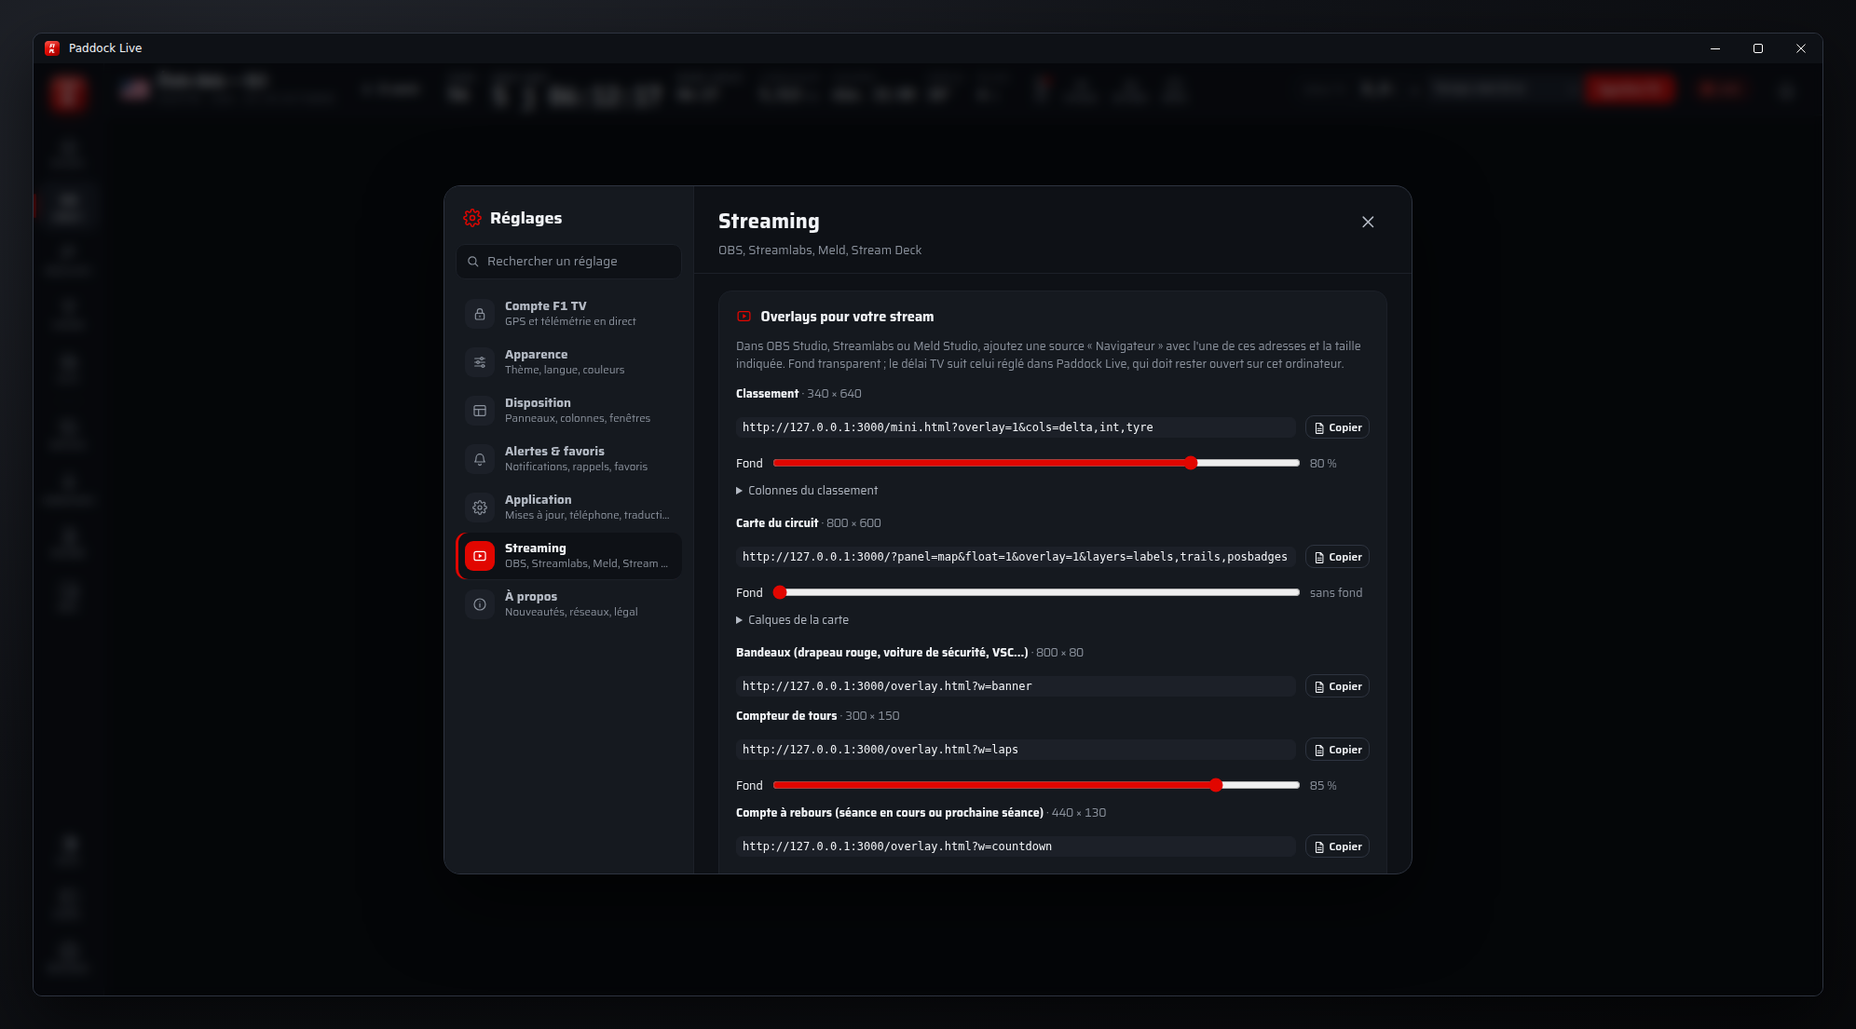
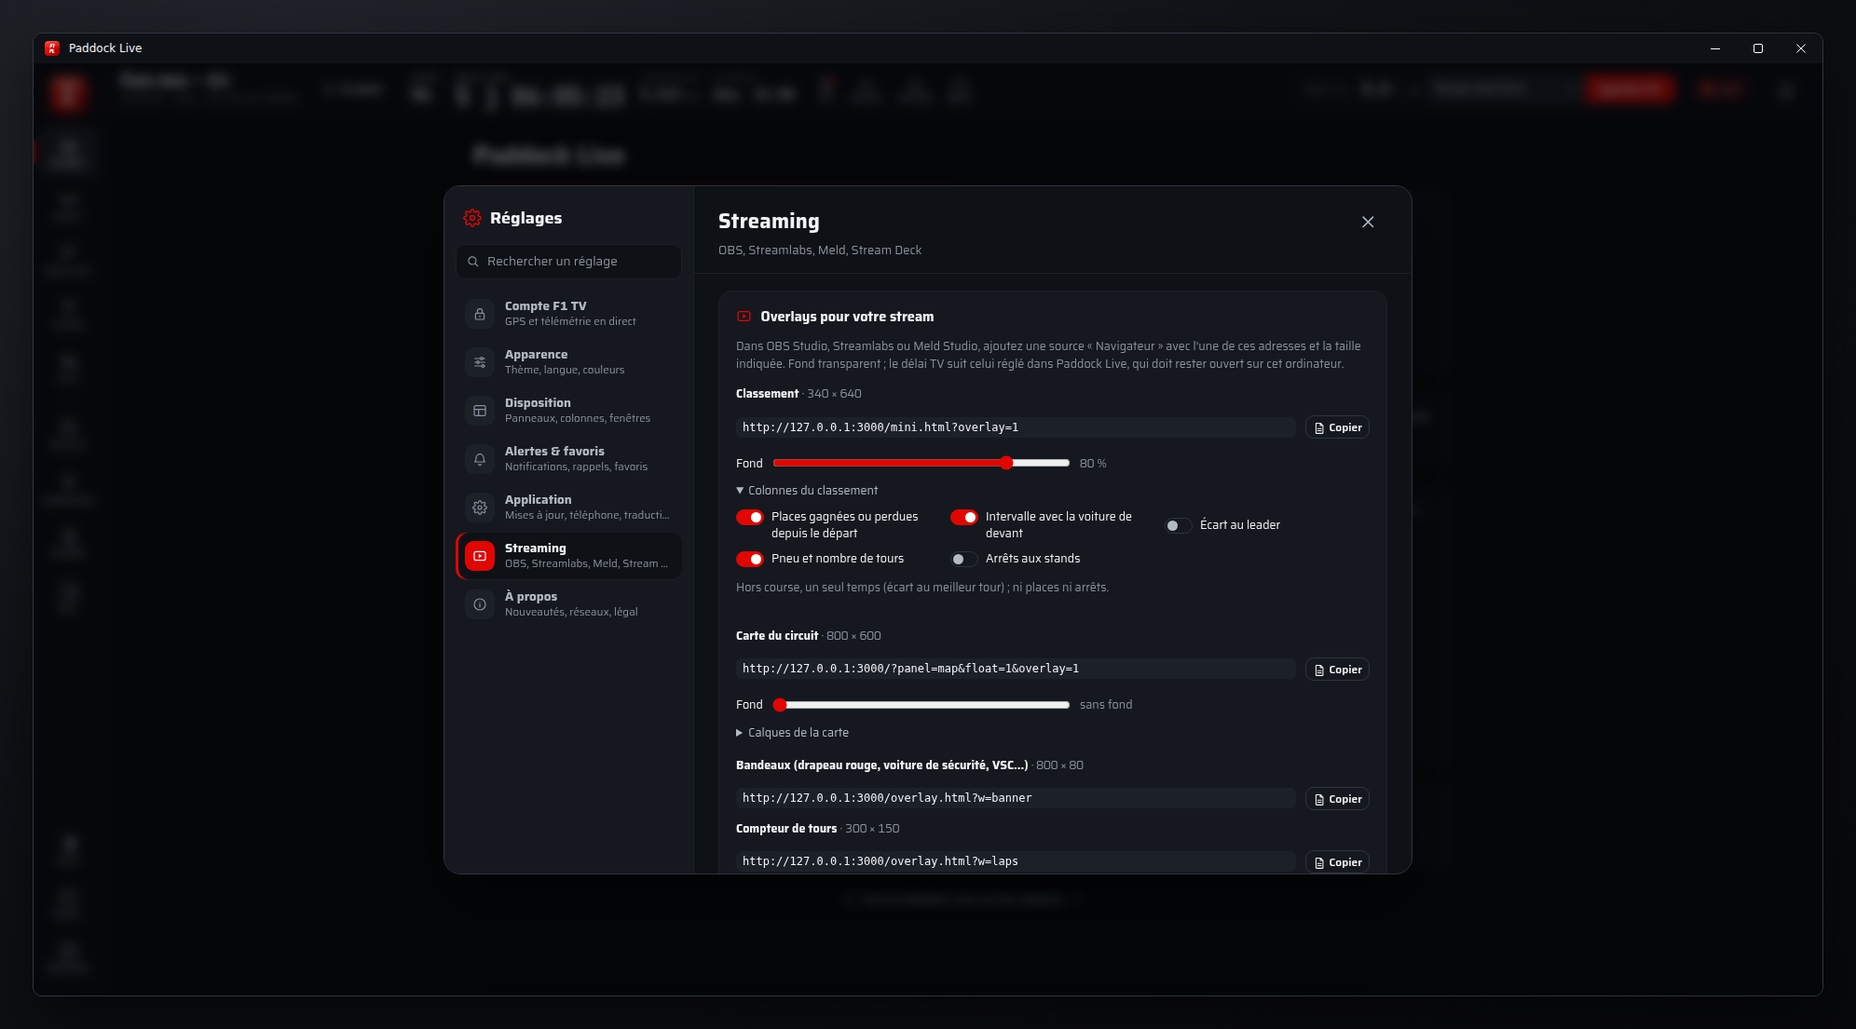
Streaming : adresses des overlays fixes, réglages appliqués en direct
Le fond, les colonnes du classement et les calques de la carte ne sont plus
dans l'adresse : Réglages → Streaming les envoie au serveur (message
« overlays » de la fenêtre de l'ordinateur), qui les garde dans config.json et
les transmet aux overlays ouverts (« overlayCfg », et dans « role » à
l'ouverture), comme le pilote suivi. Les anciennes adresses avec réglages
fonctionnent toujours. Capture Streaming du README refaite.

Claude-Session: https://claude.ai/code/session_01WgEz3ZSgjwLPy4E2f6uwb7

diff --git a/public/js/ui/streaming.js b/public/js/ui/streaming.js
@@ -4,6 +4,8 @@
 import { $, esc } from '../util.js';
 import { icon } from '../icons.js';
 import { toast } from './delay.js';
+import { store, on } from '../store.js';
+import { sendOverlayCfg } from '../conn.js';
 
 const base = () => `http://127.0.0.1:${location.port || 80}`;
 const MAP = '/?panel=map&float=1&overlay=1';
@@ -37,16 +39,19 @@ const line = (label, path, hint = '', extra = '') => `<div class="stream-row"><s
   <div class="row"><input readonly value="${esc(base() + path)}"><button class="btn small" data-copy="${esc(base() + path)}">${icon('doc')} Copier</button></div>${extra}</div>`;
 const bgLabel = (v) => (Number(v) ? `${v} %` : 'sans fond');
 
-// Réglages d'un overlay (fond, calques de la carte) : ajoutés à son adresse, car la source
-// navigateur n'a pas les réglages de l'appli
+// Clé d'un overlay dans ses réglages (gardés par le serveur, envoyés en direct aux overlays)
+const keyOf = (path) => (path.startsWith('/mini.html') ? 'mini' : path === MAP ? 'map' : new URLSearchParams(path.split('?')[1]).get('w'));
+
+// Réglages d'un overlay (fond, colonnes, calques) : appliqués tout de suite aux overlays ouverts dans
+// OBS, sans changer leur adresse
 function overlayLine([label, path, size, bg]) {
   const layers = path === MAP ? [...document.querySelectorAll('#mapLayers input[id^="map"]')].filter((i) => !NO_LAYER.includes(i.id)) : [];
   const cols = path.startsWith('/mini.html') ? COLS : [];
-  const extra = (bg === null ? '' : `<label class="small stream-bg">Fond <input type="range" min="0" max="100" step="5" value="${bg}" data-bg="${bg}"> <span>${bgLabel(bg)}</span></label>`)
+  const extra = (bg === null ? '' : `<label class="small stream-bg">Fond <input type="range" min="0" max="100" step="5" value="${bg}" data-bg> <span>${bgLabel(bg)}</span></label>`)
     + (layers.length ? `<details class="small"><summary>Calques de la carte</summary><div class="row">${layers.map((i) => `<label class="toggle small"><input type="checkbox" data-layer="${i.id.slice(3).toLowerCase()}" ${i.defaultChecked ? 'checked' : ''}> ${esc(i.parentElement.textContent.trim())}</label>`).join('')}</div></details>` : '')
     + (cols.length ? `<details class="small"><summary>Colonnes du classement</summary><div class="row">${cols.map(([k, l, on]) => `<label class="toggle small"><input type="checkbox" data-col="${k}" ${on ? 'checked' : ''}> ${esc(l)}</label>`).join('')}</div>
       <p class="muted">Hors course, un seul temps (écart au meilleur tour) ; ni places ni arrêts.</p></details>` : '');
-  return line(label, path, size, extra).replace('<div class="stream-row">', `<div class="stream-row" data-path="${esc(path)}">`);
+  return line(label, path, size, extra).replace('<div class="stream-row">', `<div class="stream-row" data-key="${keyOf(path)}">`);
 }
 
 function render() {
@@ -62,24 +67,40 @@ function render() {
       <li>La carte affiche le circuit pendant une séance ou un replay. Pour recharger une source : clic droit → Actualiser.</li>
       <li>Chaque overlay s'adapte à la taille de la source. Les bandeaux n'apparaissent que pendant un drapeau (et 30 s au drapeau à damier) : laissez la source affichée en permanence.</li>
       <li>La télémétrie montre le pilote suivi dans Paddock Live (clic sur son nom dans le classement), sinon le leader : changez de pilote dans l'appli, l'overlay suit.</li>
-      <li>Fond et calques : l'adresse change avec vos choix ; recopiez-la dans la source après un changement.</li></ul></details>`;
+      <li>Fond, colonnes et calques : appliqués tout de suite aux overlays déjà ajoutés, l'adresse ne change pas.</li></ul></details>`;
   $('#streamDeck').innerHTML = `<h4>${icon('keyboard')} Stream Deck et télécommandes</h4>
     <p class="small muted">Adresses à appeler depuis cet ordinateur. Stream Deck : action Système → « Site web », collez l'adresse et cochez l'accès en arrière-plan (« GET request in background ») pour que rien ne s'ouvre. Fonctionne aussi avec Bitfocus Companion (requête HTTP GET). Le délai change dans l'appli, les overlays et les téléphones.</p>
     ${COMMANDS.map(([l, p]) => line(l, p)).join('')}`;
-  for (const row of ov.querySelectorAll('[data-path]')) url(row);
-  ov.addEventListener('input', (e) => { const row = e.target.closest('[data-path]'); if (row) url(row); });
+  show(store.overlayCfg);
+  let tm = null;
+  ov.addEventListener('input', (e) => {
+    const r = e.target.closest('[data-bg]');
+    if (r) r.nextElementSibling.textContent = bgLabel(r.value);
+    clearTimeout(tm);
+    tm = setTimeout(() => sendOverlayCfg(cfgOf(ov)), 250);
+  });
+  on('overlayCfg', (cfg) => { if (!ov.contains(document.activeElement)) show(cfg); });
 }
 
-// Adresse d'un overlay avec ses réglages (fond seulement s'il diffère du réglage par défaut)
-function url(row) {
-  const r = row.querySelector('[data-bg]');
-  if (r) r.nextElementSibling.textContent = bgLabel(r.value);
-  const pick = (sel, key) => { const l = [...row.querySelectorAll(`[${sel}]`)]; return l.length ? `&${key}=${l.filter((c) => c.checked).map((c) => c.getAttribute(sel)).join(',')}` : ''; };
-  const u = base() + row.dataset.path
-    + (r && r.value !== r.dataset.bg ? `&bg=${r.value}` : '')
-    + pick('data-layer', 'layers') + pick('data-col', 'cols');
-  row.querySelector('input[readonly]').value = u;
-  row.querySelector('[data-copy]').dataset.copy = u;
+// Réglages lus dans la page (par overlay : fond, colonnes cochées, calques cochés)
+function cfgOf(ov) {
+  const cfg = {};
+  for (const row of ov.querySelectorAll('[data-key]')) {
+    const r = row.querySelector('[data-bg]');
+    const checked = (sel) => { const l = [...row.querySelectorAll(`[${sel}]`)]; return l.length ? l.filter((c) => c.checked).map((c) => c.getAttribute(sel)) : undefined; };
+    cfg[row.dataset.key] = { bg: r ? Number(r.value) : undefined, cols: checked('data-col'), layers: checked('data-layer') };
+  }
+  return cfg;
+}
+// Réglages gardés par le serveur, affichés dans la page
+function show(cfg) {
+  for (const row of document.querySelectorAll('#streamOverlays [data-key]')) {
+    const c = cfg?.[row.dataset.key];
+    if (!c) continue;
+    const r = row.querySelector('[data-bg]');
+    if (r && c.bg != null) { r.value = c.bg; r.nextElementSibling.textContent = bgLabel(c.bg); }
+    for (const [sel, list] of [['data-col', c.cols], ['data-layer', c.layers]]) if (list) for (const x of row.querySelectorAll(`[${sel}]`)) x.checked = list.includes(x.getAttribute(sel));
+  }
 }
 
 document.addEventListener('click', async (e) => {

diff --git a/server/hub.js b/server/hub.js
@@ -36,6 +36,22 @@ function upperBound(arr, t) {
   return lo;
 }
 
+// Réglages des overlays : par overlay, opacité du fond (0 à 100), colonnes du classement et calques
+// de la carte (clés courtes)
+const OVERLAY_KEYS = ['mini', 'map', 'laps', 'countdown', 'podium', 'telemetry'];
+export function cleanOverlayCfg(v) {
+  const out = {};
+  for (const k of OVERLAY_KEYS) {
+    const o = v?.[k];
+    if (!o || typeof o !== 'object') continue;
+    const x = {};
+    if (o.bg !== undefined && Number.isFinite(Number(o.bg))) x.bg = Math.max(0, Math.min(100, Math.round(Number(o.bg))));
+    for (const f of ['cols', 'layers']) if (Array.isArray(o[f])) x[f] = o[f].filter((n) => typeof n === 'string' && /^[a-z0-9]{1,20}$/.test(n)).slice(0, 30);
+    out[k] = x;
+  }
+  return out;
+}
+
 export class Hub {
   constructor({ maxDelayMs }) {
     this.maxDelayMs = maxDelayMs;
@@ -170,6 +186,13 @@ export class Hub {
         this.hostFocus = msg.num == null ? null : String(msg.num).slice(0, 3);
         const str = JSON.stringify({ type: 'hostFocus', num: this.hostFocus });
         for (const o of this.clients) if (!o.host) this.send(o, str);
+      } else if (msg.type === 'overlays' && host) {
+        // Réglages des overlays (Réglages → Streaming) : gardés sur l'ordinateur et appliqués tout de
+        // suite aux overlays ouverts, sans changer leur adresse
+        this.overlayCfg = cleanOverlayCfg(msg.cfg);
+        this.onOverlayCfg?.(this.overlayCfg);
+        const str = JSON.stringify({ type: 'overlayCfg', cfg: this.overlayCfg });
+        for (const o of this.clients) if (o !== c) this.send(o, str);
       } else if (msg.type === 'ping') {
         this.send(c, JSON.stringify({ type: 'pong', id: msg.id, serverNow: Date.now() }));
       }
@@ -177,7 +200,7 @@ export class Hub {
     ws.on('close', () => this.clients.delete(c));
     ws.on('error', () => this.clients.delete(c));
     this.send(c, JSON.stringify(this.statusPayload()));
-    this.send(c, JSON.stringify({ type: 'role', host, hostDelay: this.hostDelay ?? null, hostFocus: this.hostFocus ?? null }));
+    this.send(c, JSON.stringify({ type: 'role', host, hostDelay: this.hostDelay ?? null, hostFocus: this.hostFocus ?? null, overlayCfg: this.overlayCfg ?? null }));
     return c;
   }
 

diff --git a/test/server.test.js b/test/server.test.js
@@ -89,7 +89,7 @@ test('hub : les téléphones du réseau local reçoivent le délai TV de l\'ordi
   pc.emit('message', Buffer.from(JSON.stringify({ type: 'delay', ms: 42000 })));
   const phone = new FakeWs();
   hub.addClient(phone, { host: false });
-  assert.deepEqual(phone.sent.find((m) => m.type === 'role'), { type: 'role', host: false, hostDelay: 42000, hostFocus: null });
+  assert.deepEqual(phone.sent.find((m) => m.type === 'role'), { type: 'role', host: false, hostDelay: 42000, hostFocus: null, overlayCfg: null });
   // Nouveau réglage sur l'ordinateur : transmis au téléphone ; pas l'inverse
   pc.sent = [];
   pc.emit('message', Buffer.from(JSON.stringify({ type: 'delay', ms: 45000 })));
@@ -129,6 +129,28 @@ test('hub : pilote suivi dans l\'appli repris par les overlays, pas l\'inverse',
   const late = new FakeWs();
   hub.addClient(late, { host: false });
   assert.equal(late.sent.find((m) => m.type === 'role').hostFocus, '16');
+  hub.close();
+});
+
+test('hub : réglages des overlays (Réglages → Streaming) appliqués en direct, gardés et nettoyés', () => {
+  const hub = new Hub({ maxDelayMs: 600000 });
+  hub.reset({ mode: 'test' });
+  const saved = [];
+  hub.onOverlayCfg = (cfg) => saved.push(cfg);
+  const pc = new FakeWs();
+  hub.addClient(pc);
+  const overlay = new FakeWs();
+  hub.addClient(overlay, { host: false });
+  pc.emit('message', Buffer.from(JSON.stringify({ type: 'overlays', cfg: { mini: { bg: 140, cols: ['delta', 'int', '<b>'] }, map: { bg: 0, layers: ['labels'] }, autre: { bg: 5 } } })));
+  const cfg = { mini: { bg: 100, cols: ['delta', 'int'] }, map: { bg: 0, layers: ['labels'] } };
+  assert.deepEqual(overlay.sent.at(-1), { type: 'overlayCfg', cfg });
+  assert.deepEqual(saved, [cfg]);
+  // Un overlay ou un téléphone ne change pas les réglages ; un overlay ouvert plus tard les reçoit
+  overlay.emit('message', Buffer.from(JSON.stringify({ type: 'overlays', cfg: {} })));
+  assert.deepEqual(hub.overlayCfg, cfg);
+  const late = new FakeWs();
+  hub.addClient(late, { host: false });
+  assert.deepEqual(late.sent.find((m) => m.type === 'role').overlayCfg, cfg);
   hub.close();
 });
 

diff --git a/public/js/conn.js b/public/js/conn.js
@@ -4,6 +4,9 @@ import { storageGet, fmtDelay } from './util.js';
 import { toast } from './ui/delay.js';
 
 const OVERLAY = /[?&]overlay=1(&|$)/.test(location.search) || location.pathname === '/overlay.html';
+// Overlay affiché : sa clé dans les réglages des overlays (Réglages → Streaming)
+const OVERLAY_KEY = !OVERLAY ? null : location.pathname === '/overlay.html' ? new URLSearchParams(location.search).get('w') || 'laps'
+  : location.pathname === '/mini.html' ? 'mini' : 'map';
 let ws = null;
 let pingTimer = null;
 let pingId = 0;
@@ -44,9 +47,11 @@ export function connect() {
         emit('role', msg.host);
         if (msg.hostDelay != null) followHost(msg.hostDelay);
         hostFocus(msg.hostFocus);
+        overlayCfg(msg.overlayCfg);
         break;
       case 'hostDelay': followHost(msg.ms); break;
       case 'hostFocus': hostFocus(msg.num); break;
+      case 'overlayCfg': overlayCfg(msg.cfg); break;
       // Délai changé à distance (Stream Deck)
       case 'setDelay':
         if (store.isHost && msg.ms !== store.delay) { setDelay(msg.ms); toast(`Délai TV : ${fmtDelay(store.delay)}`, 2500); }
@@ -86,6 +91,20 @@ function hostFocus(num) {
   if (!OVERLAY || num === undefined || num === store.focus) return;
   store.focus = num;
   emit('focus', num);
+}
+
+// Réglages des overlays changés dans l'appli : appliqués tout de suite, sans changer d'adresse (fond
+// ici, colonnes du classement et calques de la carte dans mini.js et map.js)
+function overlayCfg(cfg) {
+  if (cfg === undefined) return;
+  store.overlayCfg = cfg;
+  const bg = cfg?.[OVERLAY_KEY]?.bg;
+  if (OVERLAY_KEY && bg != null) document.documentElement.style.setProperty('--ov-bg', `${bg}%`);
+  emit('overlayCfg', cfg);
+}
+export function sendOverlayCfg(cfg) {
+  store.overlayCfg = cfg;
+  send({ type: 'overlays', cfg });
 }
 
 function ping() {

diff --git a/public/js/ui/map.js b/public/js/ui/map.js
@@ -1335,11 +1335,14 @@ function initMapOptions() {
     el.addEventListener('change', save);
     if (id === 'mapRibbon2') el.addEventListener('change', () => { xf = null; });
   }
-  // Overlay de streaming : calques choisis dans l'adresse (&layers=labels,trails…, Réglages → Streaming)
-  const want = new URLSearchParams(location.search).get('layers');
-  if (want !== null && document.documentElement.classList.contains('overlay')) {
-    const on = new Set(want.split(','));
-    for (const id of MAP_OPTS) $(`#${id}`).checked = on.has(id.slice(3).toLowerCase());
+  // Overlay de streaming : calques choisis dans Réglages → Streaming (appliqués en direct), sinon
+  // dans l'adresse (&layers=labels,trails…, anciens liens)
+  if (document.documentElement.classList.contains('overlay')) {
+    const layers = (list) => { const set = new Set(list); for (const id of MAP_OPTS) $(`#${id}`).checked = set.has(id.slice(3).toLowerCase()); };
+    const want = new URLSearchParams(location.search).get('layers');
+    if (want !== null) layers(want.split(','));
+    if (store.overlayCfg?.map?.layers) layers(store.overlayCfg.map.layers);
+    on('overlayCfg', (cfg) => { if (cfg?.map?.layers) layers(cfg.map.layers); });
   }
   const hot = $('#hotLapDim');
   hot.checked = prefs.hotLapDim;

diff --git a/public/js/mini.js b/public/js/mini.js
@@ -16,9 +16,13 @@ translatePage();
 // 'int' (intervalle) | 'gap' (écart au leader) ; overlay de streaming : ?mode=gap dans l'adresse
 let mode = new URLSearchParams(location.search).get('mode') || storageGet('paddock.miniMode', 'int');
 // Overlay de streaming : colonnes choisies (Réglages → Streaming) : delta (places gagnées depuis le
-// départ), int (intervalle), gap (écart au leader), tyre (pneu et tours), pits (arrêts)
-const COLS = new URLSearchParams(location.search).get('cols')?.split(',') || null;
+// départ), int (intervalle), gap (écart au leader), tyre (pneu et tours), pits (arrêts). Réglages de
+// l'appli, sinon colonnes de l'adresse (anciens liens), sinon celles cochées par défaut
+const URL_COLS = new URLSearchParams(location.search).get('cols')?.split(',') || null;
+const IS_OVERLAY = document.documentElement.classList.contains('overlay');
+let COLS = URL_COLS || (IS_OVERLAY ? ['delta', 'int', 'tyre'] : null);
 let lastKey = '';
+on('overlayCfg', (cfg) => { if (IS_OVERLAY && cfg?.mini?.cols) { COLS = cfg.mini.cols; lastKey = ''; } });
 
 const list = (o) => (!o ? [] : Array.isArray(o) ? o : Object.keys(o).sort((a, b) => a - b).map((k) => o[k]));
 

diff --git a/public/js/i18n-en.js b/public/js/i18n-en.js
@@ -2374,7 +2374,7 @@ export default {
   "Intervalle avec la voiture de devant": "Interval to the car ahead",
   "Pneu et nombre de tours": "Tyre and laps",
   "Hors course, un seul temps (écart au meilleur tour) ; ni places ni arrêts.": "Outside races, a single time (gap to the fastest lap); no places or pit stops.",
-  "Fond et calques : l'adresse change avec vos choix ; recopiez-la dans la source après un changement.": "Background and layers: the address changes with your choices; copy it into the source again after a change.",
+  "Fond, colonnes et calques : appliqués tout de suite aux overlays déjà ajoutés, l'adresse ne change pas.": "Background, columns and layers: applied straight away to overlays already added; the address does not change.",
   "Calques de la carte": "Map layers",
   "Chargement de Paddock Live…": "Loading Paddock Live…",
   "Calendrier, résultats et actualités": "Calendar, results and news",

diff --git a/server/index.js b/server/index.js
@@ -66,6 +66,9 @@ function authInfo() {
 }
 
 const hub = new Hub({ maxDelayMs: settings.maxDelayMs });
+// Réglages des overlays de streaming (Réglages → Streaming), gardés d'un lancement à l'autre
+hub.overlayCfg = getConfig().overlays || null;
+hub.onOverlayCfg = (cfg) => saveConfig({ overlays: cfg });
 const recorder = process.env.NO_RECORDING ? null : new Recorder();
 const live = new LiveSource(hub, () => {
   const token = getConfig().f1tvToken;

diff --git a/public/js/store.js b/public/js/store.js
@@ -14,6 +14,7 @@ export const store = {
   positions: new Positions((utc) => utcToLocal(utc), () => replaySpeed()),
   duel: storageGet('paddock.duel', { a: null, b: null }),
   focus: storageGet('paddock.focus', null),
+  overlayCfg: null,       // réglages des overlays de streaming (Réglages → Streaming), gardés par le serveur
 };
 
 const listeners = new Map();

diff --git a/docs/GUIDE.md b/docs/GUIDE.md
@@ -121,7 +121,7 @@ Les versions publiées ensuite seront signées (le journal de compilation affich
 
 ⚙ Réglages → **Streaming** donne les adresses à copier ; Paddock Live doit rester ouvert sur l'ordinateur.
 
-- **Overlays** : dans OBS Studio, Streamlabs ou Meld Studio, ajoutez une source « Navigateur » avec l'adresse et la taille indiquées. Fond transparent, au rythme du délai TV, toujours en thème sombre. Overlays : **classement** (colonnes au choix : places gagnées, intervalle, écart au leader, pneu, arrêts), **carte du circuit** (calques au choix), **bandeaux** (drapeau rouge, voiture de sécurité, VSC, drapeaux, damier : affichés seulement quand il le faut), **compteur de tours**, **compte à rebours** (séance en cours ou prochaine séance), **podium**, **télémétrie du pilote suivi** (celui choisi dans l'appli, sinon le leader). Le fond de chaque overlay (sauf les bandeaux) se règle de 0 à 100 %. L'adresse change avec vos choix : recopiez-la dans la source.
+- **Overlays** : dans OBS Studio, Streamlabs ou Meld Studio, ajoutez une source « Navigateur » avec l'adresse et la taille indiquées. Fond transparent, au rythme du délai TV, toujours en thème sombre. Overlays : **classement** (colonnes au choix : places gagnées, intervalle, écart au leader, pneu, arrêts), **carte du circuit** (calques au choix), **bandeaux** (drapeau rouge, voiture de sécurité, VSC, drapeaux, damier : affichés seulement quand il le faut), **compteur de tours**, **compte à rebours** (séance en cours ou prochaine séance), **podium**, **télémétrie du pilote suivi** (celui choisi dans l'appli, sinon le leader). Le fond de chaque overlay (sauf les bandeaux) se règle de 0 à 100 %. Les adresses ne changent jamais : fond, colonnes et calques s'appliquent tout de suite aux overlays déjà ajoutés, sans actualiser la source, et restent gardés d'un lancement à l'autre.
 - **Stream Deck et télécommandes** : adresses à appeler (action « Site web » en arrière-plan, ou requête HTTP GET avec Bitfocus Companion) pour le délai TV ±1 s ou ±0,1 s, et en replay lecture / pause et ±10 s. Le délai change dans l'appli, les overlays et les téléphones.
 
 ## 🧩 Disposition et deux écrans

diff --git a/README.md b/README.md
@@ -121,7 +121,7 @@ Le détail de chacune est dans le **[guide complet](docs/GUIDE.md)**.
 - **Radio ou flux audio** de votre choix, retardé du délai TV.
 
 ### Streaming
-- **Overlays** à ajouter comme source navigateur dans OBS Studio, Streamlabs ou Meld Studio, au rythme du délai TV : classement (colonnes au choix), carte du circuit (calques au choix), bandeaux de drapeaux, compteur de tours, compte à rebours, podium, télémétrie du pilote suivi ; fond réglable de 0 à 100 %.
+- **Overlays** à ajouter comme source navigateur dans OBS Studio, Streamlabs ou Meld Studio, au rythme du délai TV : classement (colonnes au choix), carte du circuit (calques au choix), bandeaux de drapeaux, compteur de tours, compte à rebours, podium, télémétrie du pilote suivi ; fond réglable de 0 à 100 % ; adresses fixes, réglages appliqués en direct sans recopier le lien.
 - **Stream Deck** ou Bitfocus Companion : délai TV ±1 s ou ±0,1 s, lecture, pause et ±10 s en replay.
 
 ### Disposition et écrans

diff --git a/CHANGELOG.md b/CHANGELOG.md
@@ -7,6 +7,10 @@ l'application (Réglages → Application → Nouveautés).
 ## v1.27.38 — à venir
 
 ### Streaming
+- Adresses des overlays fixes : le fond, les colonnes du classement et les calques de la carte se règlent dans
+  Réglages → Streaming et s'appliquent tout de suite aux overlays déjà ajoutés dans OBS, Streamlabs ou Meld Studio,
+  sans recopier l'adresse ni actualiser la source. Les réglages sont gardés d'un lancement à l'autre ; les anciennes
+  adresses avec leurs réglages fonctionnent toujours.
 - Réglages → Streaming : les cases des colonnes du classement et des calques de la carte sont rangées en colonnes
   lisibles (elles se chevauchaient), et l'adresse de la carte ne dépasse plus du cadre.
 
